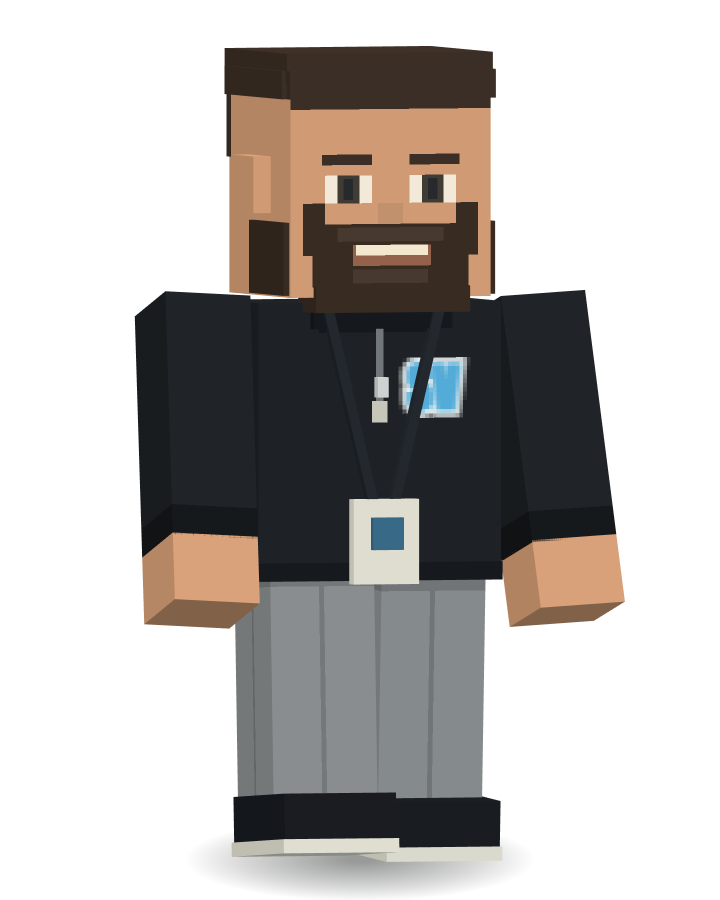
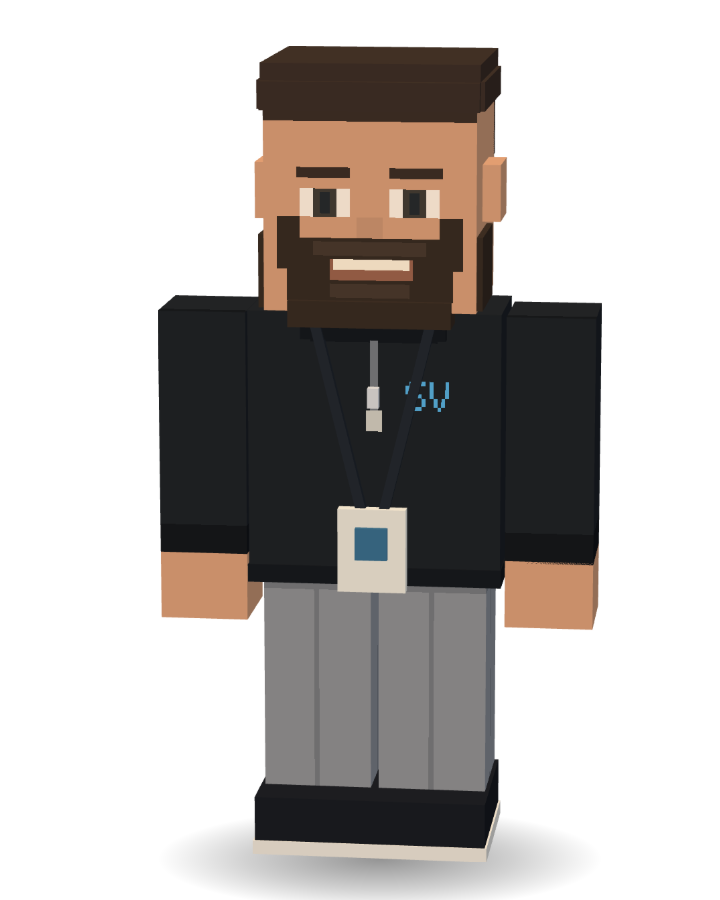
Character touch-ups, re-rendered title pictures, phone block pill
Pixel-art SV chest logo for Mr. Macek and Mr. Wingenbach (was blurred
Impact text), calmer 8 px knit on Ms. Micco's cardigan, Mr. Mullet's hood
kept within his head width, Ms. Eriksen's cuffs at the wrists. The six
staff-lineup pictures are re-rendered from the real models via the
local-only ?lineup=1 hook, same frame and feet line, Mr. Macek waving up
and forward. Phones hide the campus notes in the block pill. npm test: 50
pass; title-screen test re-run on the new pictures.

Changed region(s): [[0.1833, 0.0311, 0.8861, 0.9956]]

diff --git a/game/mynecraft.html b/game/mynecraft.html
@@ -2357,14 +2357,15 @@ function clampCapUV(geo){
   uv.needsUpdate=true;return geo;
 }
 function drawSVChestLogo(ctx,cx=32,cy=28,scale=1){
-  ctx.save();ctx.translate(cx,cy);ctx.scale(scale,scale);
-  ctx.font='900 26px Impact,"Arial Black",sans-serif';ctx.textAlign='center';ctx.textBaseline='middle';
-  ctx.lineJoin='round';
-  ctx.strokeStyle='#f0f7fc';ctx.lineWidth=6;ctx.strokeText('SV',0,0);
-  ctx.strokeStyle='#102842';ctx.lineWidth=3.2;ctx.strokeText('SV',0,0);
-  ctx.fillStyle='#58b4e8';ctx.fillText('SV',0,0);
-  ctx.fillStyle='#70b6df';ctx.fillRect(-14,-10,28,2);
-  ctx.restore();
+  // Pixel-art 'SV': 5x7 glyphs on an integer grid (2 px cells at scale 1, 1 px cells at scale .5),
+  // with a 1 px dark outline at full size, so the logo stays crisp on the 64 px textures instead
+  // of the blurred Impact text it replaced.
+  const S=['.####','#....','#....','.###.','....#','....#','####.'],V=['#...#','#...#','#...#','#...#','.#.#.','.#.#.','..#..'];
+  const px=Math.max(1,Math.round(2*scale)),gap=px,w=(5+1+5)*px,h=7*px,x0=cx-Math.round(w/2),y0=cy-Math.round(h/2);
+  const draw=(color,dx,dy)=>{ctx.fillStyle=color;[S,V].forEach((g,gi)=>g.forEach((row,r)=>[...row].forEach((ch,c)=>{if(ch==='#')ctx.fillRect(x0+(gi*6+c)*px+dx,y0+r*px+dy,px,px);})));};
+  if(px>1)for(const [dx,dy] of [[-1,0],[1,0],[0,-1],[0,1],[-1,-1],[1,-1],[-1,1],[1,1]])draw('#102842',dx,dy);
+  draw('#58b4e8',0,0);
+  if(px>1){ctx.fillStyle='#70b6df';ctx.fillRect(cx-14,cy-10,28,2);}
 }
 const macekClothes=Object.fromEntries(['polo','black'].map(style=>[style,outfitTexture(ctx=>{
   ctx.fillStyle=style==='polo'?'#1685d1':'#171b22';ctx.fillRect(0,0,64,64);
@@ -2520,9 +2521,7 @@ function staffLook(style){
     if(isMusic){
       ctx.fillStyle='#171a1f';ctx.fillRect(16,0,32,7);
       ctx.fillStyle='#777d83';ctx.fillRect(31,0,2,27);ctx.fillStyle='#d0d0c7';ctx.fillRect(30,23,4,5);
-      ctx.font='900 13px Impact,"Arial Black",sans-serif';ctx.textAlign='center';ctx.textBaseline='middle';
-      ctx.strokeStyle='#f0f7fc';ctx.lineWidth=2.4;ctx.strokeText('SV',46,20);
-      ctx.fillStyle='#58b4e8';ctx.fillText('SV',46,20);
+      drawSVChestLogo(ctx,46,20,.5);
     }
     if(style==='mcmichael'){
       ctx.fillStyle='#d7cfbd';for(let x=2;x<64;x+=5)ctx.fillRect(x,0,2,64);
@@ -2617,10 +2616,10 @@ function styleStaffPerson(npc,style){
       part(npc.group,'cardigan lapel',.105,.67,.024,0x1d2128,side*.195,1.02,.162);
       part(npc.group,'cardigan hem',.13,.045,.32,0x14171c,side*.185,.70,0);
     }
-    for(const arm of [npc.armL,npc.armR])part(arm,'sleeve cuff',.235,.05,.265,0x242830,0,-.41,0);
+    for(const arm of [npc.armL,npc.armR])part(arm,'sleeve cuff',.24,.05,.27,0x242830,0,-.60,0);
   }
   if(isPE){
-    part(npc.group,'hood',.55,.19,.23,0x18263e,0,1.34,-.19);
+    part(npc.group,'hood',.50,.19,.20,0x18263e,0,1.34,-.205);
     part(npc.group,'hoodie collar',.36,.065,.035,0x18263e,0,1.33,.162);
     part(npc.group,'hoodie pocket',.38,.19,.026,0x16233a,0,.80,.164);
     for(const side of [-1,1]){
@@ -2831,10 +2830,10 @@ function stylePerson(npc,style){
     part(.08,.1,.04,0x6cb6e2,.16,1.12,.16);
   } else if(style==='micco'){
     stylePerson.miccoFront??=outfitTexture(ctx=>{
-      ctx.fillStyle='#a6a8ad';ctx.fillRect(0,0,64,64);
-      for(let y=0;y<64;y+=4)for(let x=0;x<64;x+=4){
-        ctx.fillStyle=(x+y)%8===0?'#b8bac0':(x*3+y)%12===0?'#8d9096':'#9fa1a7';
-        ctx.fillRect(x,y,4,4);
+      ctx.fillStyle='#a2a4aa';ctx.fillRect(0,0,64,64);
+      // Soft 8 px two-tone knit, like the sleeves: the old 4 px three-tone speckle read as static.
+      for(let y=0;y<64;y+=8)for(let x=0;x<64;x+=8){
+        ctx.fillStyle=((x+y)/8)%2===0?'#aaacb2':'#999ca2';ctx.fillRect(x,y,8,8);
       }
       ctx.fillStyle='#1f2531';ctx.fillRect(18,0,28,64);
       ctx.fillStyle='#151a24';ctx.fillRect(18,0,28,4);
@@ -3443,6 +3442,8 @@ const playerAvatars=Object.fromEntries(STAFF_CHARACTERS.map(c=>{
   avatar.group.visible=false;scene.add(avatar.group);return [c.id,avatar];
 }));
 let playerAvatar=playerAvatars[playerCharacter];
+// Title-picture renders (game/assets/staff-lineup) come from these real models: ?lineup=1 exposes them to a local render script only.
+if(new URLSearchParams(location.search).has('lineup'))globalThis.MYNE_LINEUP={THREE,scene,renderer,playerAvatars,macek,eriksen};
 const viewModel=new THREE.Group(),viewArms={},viewShoulders=[];
 const warmViewMat=(mesh,intensity=.42)=>{mesh.material.forEach(m=>{m.emissive?.setHex?.(0xffffff);m.emissiveMap=m.map;m.emissiveIntensity=intensity;m.needsUpdate=true;});};
 for(const [name,side] of [['armL',-1],['armR',1]]){
@@ -5356,8 +5357,8 @@ function updateCoordHUD() {
   coordHUD.innerHTML =
     (activities?.isFishing()?'Tool: Fishing rod':activities?.hasTea?.()?'Holding: Cup of tea':chosenGarden?`Garden: ${GARDEN_KITS[chosenGarden]}`:chosenAnimal?`Animal: ${chosenAnimal}`:`<span style="color:${bk.swatch}">\u25a0</span> ${bk.name}`) +
     (gameMode!=='creative'?` (${inventory[BLOCK_KEYS[selected]]})<br>${gameMode==='hardcore'?'Hardcore · ':''}Health ${Math.ceil(health)}/20 · Air ${Math.ceil(breath)}/10`:' · Creative') +
-    (!isHardcoreWorld&&!isGroupRoom&&dayTime>=.43&&dayTime<=.56?'<br>Sunset meet-up: ECMS entrance':'') +
-    (!isHardcoreWorld&&!isGroupRoom&&cookieOnDuty(dayTime)?'<br>Cookie Man: evening sweep':'');
+    (!isHardcoreWorld&&!isGroupRoom&&dayTime>=.43&&dayTime<=.56?'<span class="campus-note"><br>Sunset meet-up: ECMS entrance</span>':'') +
+    (!isHardcoreWorld&&!isGroupRoom&&cookieOnDuty(dayTime)?'<span class="campus-note"><br>Cookie Man: evening sweep</span>':'');
 }
 
 // ---------- touch controls (iPhone / iPad) ----------

diff --git a/game/campus-interface.css b/game/campus-interface.css
@@ -182,6 +182,8 @@ html body.campus-ui #controls #gameClock { background: #ffffff0a; border-color: 
 html body.campus-ui #hotbar { background: #24262bee; border: 1px solid #d8dcc650; border-radius: 8px; padding: 6px; box-shadow: 0 4px 15px #0004; max-width: calc(100vw - 24px); box-sizing: border-box; }
 html body.campus-ui #hotbar button { background: #505548; border: 1px solid #9ca58d; border-radius: 4px; }
 html body.campus-ui #coordinates { background: #24262be8; border-color: #7c8770; color: #ecefe4; border-radius: 5px; }
+/* Phones: the block pill above the hotbar shows only the block; campus notes (sunset meet-up, Cookie Man) stay on larger screens. */
+body.touch-device #coordinates .campus-note { display: none; }
 html body.campus-ui #inventoryOverlay { background: #141b13c9; }
 html body.campus-ui .inventory-sheet { background: #24282f; border: 1px solid #98a28a; border-radius: 10px; color: #f6f8f0; }
 html body.campus-ui .inventory-head { background: #24282f; border-color: #56647a; border-radius: 9px 9px 0 0; }

diff --git a/README.md b/README.md
@@ -33,6 +33,7 @@ Because the two addresses share one save, keep them on the same release. An olde
 - **Embrace the Challenge: Hardcore:** a separate peaceful resource world with a village, crafting, a mine, building goals, and unlockable materials, animals, and existing teacher characters. Its name describes progression and resource limits, not combat or permanent death. Only the player's own qualifying construction completes building goals.
 - **Materials and depth:** cherry, spruce, and pine wood variations, concrete colors, copper and iron ores, and mineable terrain down to the protected floor at Y = -40. Deep terrain is virtual until exposed, keeping the initial world size bounded. Excavations are saved as block edits and their exposed faces are rebuilt on load.
 - **Flowers and gardens:** Inventory includes red poppies, white daisies, sunflowers, lavender, and green/purple/pink/black concrete. Creative also has one-place oak/cherry/pine trees, a hedge and a flower bed. Kits check the whole footprint before placement and never replace existing blocks. Flowers use crossed pixel sprites and can be walked through. Hardcore unlocks flower recipes after the wood goal and additional concrete recipes after the house goal. The undeployed group-room prototype does not expose these additions.
+- **Character touch-ups and re-rendered title pictures (October 31, 2026):** The SV chest logo on Mr. Macek and Mr. Wingenbach is pixel art on an integer grid (`drawSVChestLogo`), not anti-aliased Impact text that blurred on the 64 px torso texture. Ms. Micco's cardigan is an 8 px two-tone knit instead of a 4 px three-tone speckle that read as static. Mr. Mullet's hood stays within his head's width, so no navy corner pokes out beside his neck. Ms. Eriksen's cardigan cuffs sit at the wrists, not mid-arm, where they read as bent elbows. The six `game/assets/staff-lineup/*.png` pictures were re-rendered from these models with `?lineup=1` (a local-only hook, `MYNE_LINEUP`, that exposes the models to a render script; it does nothing in normal play): same 720 by 900 frame, feet on the same line, warm upper-left light and a soft ground shadow; Mr. Macek waves with his arm up and forward. Phones: campus notes in the block pill (Sunset meet-up, Cookie Man) are hidden on touch screens (`.campus-note`) so the pill shows just the block.
 - **Green PLAY and one-line modes (October 31, 2026):** PLAY on the landing title screen, PLAY/RESUME in the game menu and the top-bar PLAY NOW are green (`.campus-ui .play` and `#enter` in `game/campus-interface.css`), so the one button a kid needs stands apart from the light-blue cards. Each mode card now explains itself in one short line on both pages: Creative "Unlimited blocks. You can fly.", Challenge "Collect, build, find CIRC.", Hardcore "Your own world. No enemies."; the longer hover/chosen description line is unchanged. Phone fix: the icon-only Tutorial and Fly buttons in the top bar hide their text with `font-size: 0`, and the emoji icon inherited that size and vanished, leaving an empty square; the icons now set their own 18 px size. Stylesheet version bumped to `20261031-green`.
 - **Start screen (October 23, 2026 simplification):** The title is drawn as blocky letter tiles (grass, stone, sand, wood, gold) with a gentle wave that stops for reduced-motion settings. Beside it: three big mode buttons that drive the existing `#mode` select, one plain **▶ PLAY** button, and a small "Playing as: … · Change" line. Character cards follow Things to try; How to play, Settings, saving and the other guides are folded behind one button each.
 - **Characters:** Players always play as one of the six Specials teachers ("Choose your Specials teacher"). There is no playable Student. Until a teacher is picked, the player is Mr. Macek, the teacher Hardcore unlocks first, and the title screen shows "Choose your teacher" beside Play. Picking a card saves `characterChosen: true`. A saved `macek` without that flag (the old automatic default), a saved or backed-up `student`, or a backup without a character keeps the whole world, opens as Mr. Macek and asks for a teacher; any other saved teacher, or a chosen Mr. Macek, is kept. Backups still accept the old `student` id and validate the flag. The retired Student look (front-only star, plain blue back) still renders but is not selectable.
